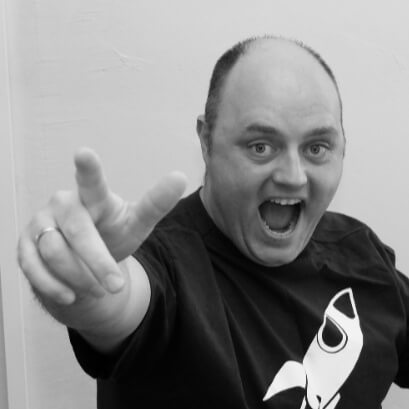
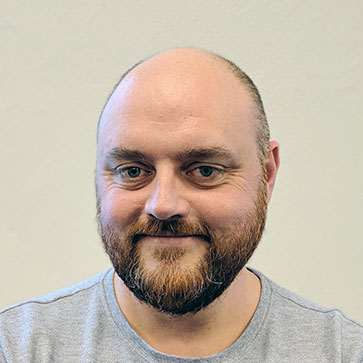
Added Jakob and updated photos

diff --git a/src/Components/about/markup.html b/src/Components/about/markup.html
@@ -9,7 +9,8 @@
                 <div class="text">
                     <h3>Arif Shafique</h3>
                     <strong class="title">CEO</strong>
-                    <p>20 years in the industry with product development background. 12 years in Microsoft help building SaaS
+                    <p>20 years in the industry with product development background. 12 years in Microsoft help
+                        building SaaS
                         businesses with Nordic software companies.</p>
                 </div>
             </li>
@@ -20,8 +21,22 @@
                 <div class="text">
                     <h3>Einar Ingebrigtsen</h3>
                     <strong class="title">CTO</strong>
-                    <p>23 years of enterprise software development. One of Microsoft highest rewarded cloud architects globally.
+                    <p>23 years of enterprise software development. One of Microsoft highest rewarded cloud architects
+                        globally.
                         Main developer of Dolittle open source platform.
+                    </p>
+                </div>
+            </li>
+            <li>
+                <figure>
+                    <img src="${require('../../images/Profiles/Jakob.jpg')}" alt="Photo of Jakob Høgenes">
+                </figure>
+                <div class="text">
+                    <h3>Jakob Høgenes</h3>
+                    <strong class="title">Senior platform and automation engineer</strong>
+                    <p>
+                        Master's degree in Engineering Cybernetics (robotics) from 2015. Worked as a researcher on
+                        model-based software engineering, focusing on IoT and CPS applications.
                     </p>
                 </div>
             </li>
@@ -33,7 +48,8 @@
                     <h3>Michael Smith</h3>
                     <strong class="title">Chief Success Officer</strong>
                     <p>
-                        17 years of enterprise software development using event-driven design principles. Part of the core team developing Dolittle
+                        17 years of enterprise software development using event-driven design principles. Part of the
+                        core team developing Dolittle
                         open source platform.
                     </p>
                 </div>
@@ -45,8 +61,10 @@
                 <div class="text">
                     <h3>Pavneet Singh Saund</h3>
                     <strong class="title">User Experience Lead</strong>
-                    <p>12 years of enterprise software development. Member of the core development team at Komplett Group as
-                        Technical Team Lead. Focused on creating great user experiences through attending to folks needs.</p>
+                    <p>12 years of enterprise software development. Member of the core development team at Komplett
+                        Group as
+                        Technical Team Lead. Focused on creating great user experiences through attending to folks
+                        needs.</p>
                 </div>
             </li>
             <li>
@@ -56,7 +74,8 @@
                 <div class="text">
                     <h3>Petri Wilhelmsen</h3>
                     <strong class="title">VP Digital Twin</strong>
-                    <p>12 years of development using 3D technology. Senior Program Manager in Windows team Redmond working on
+                    <p>12 years of development using 3D technology. Senior Program Manager in Windows team Redmond
+                        working on
                         digital twin using HoloLens, AR and VR.
                     </p>
                 </div>
@@ -68,7 +87,8 @@
                 <div class="text">
                     <h3>Sindre Alstad Wilting</h3>
                     <strong class="title">OSS Platform Engineer</strong>
-                    <p>Computer Science graduate in 2018, with experience in open source software development and an interest in cloud-based solutions and software architecture</p>
+                    <p>Computer Science graduate in 2018, with experience in open source software development and an
+                        interest in cloud-based solutions and software architecture</p>
                 </div>
             </li>
             <li>
@@ -78,7 +98,8 @@
                 <div class="text">
                     <h3>Tomas Ekeli</h3>
                     <strong class="title">Customer Success Lead</strong>
-                    <p>12 years of enterprise software development within bank/finance, telecom, data-analysis, ground-handling
+                    <p>12 years of enterprise software development within bank/finance, telecom, data-analysis,
+                        ground-handling
                         and eCommerce. Worked the last 6 years as Lead Software Architect at Komplett Group.</p>
                 </div>
             </li>
@@ -89,7 +110,8 @@
                 <div class="text">
                     <h3>Tore Eggen</h3>
                     <strong class="title">EVP Product</strong>
-                    <p>20 years of products development across broadband, eLearning and recently smart home hardware and software
+                    <p>20 years of products development across broadband, eLearning and recently smart home hardware
+                        and software
                         products. He is part of our leadership team.
                     </p>
                 </div>
@@ -101,7 +123,8 @@
                 <div class="text">
                     <h3>Vidar Aune Westrum</h3>
                     <strong class="title">Design Lead</strong>
-                    <p>13 years of experience with enterprise web solutions with both internal and external users as the target.
+                    <p>13 years of experience with enterprise web solutions with both internal and external users as
+                        the target.
                         UX and UI as the main focus.</p>
                 </div>
             </li>
